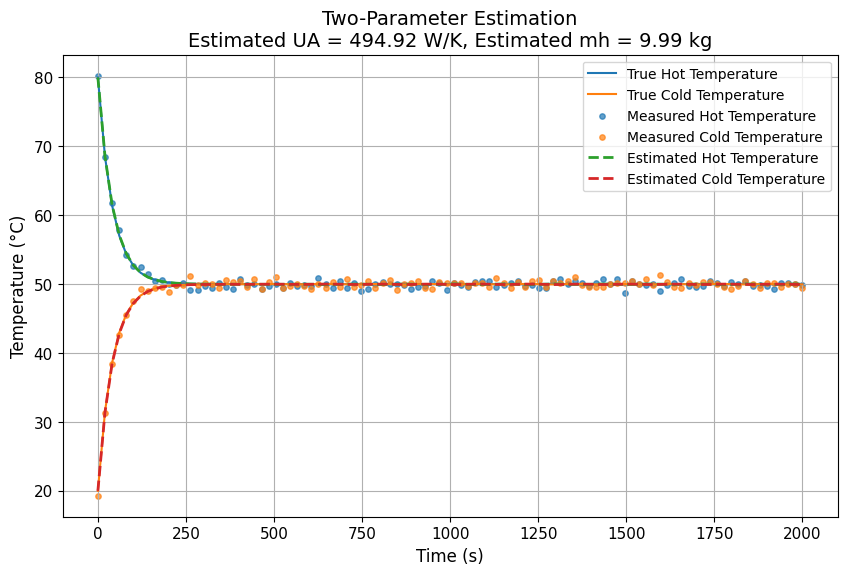
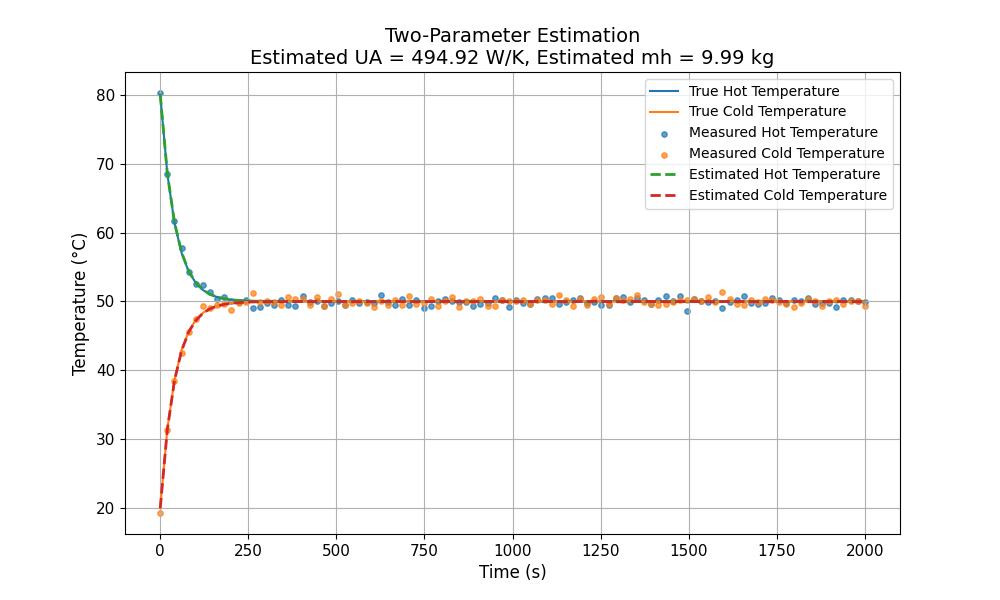
Implement three-parameter estimation for UA, mh, and mc

diff --git a/src/analysis/plotting.py b/src/analysis/plotting.py
@@ -369,3 +369,79 @@ def plot_parameter_correlation(
         plt.savefig(filename)
 
     plt.show()
+
+def plot_three_parameter_estimation(
+    time,
+    Th_true,
+    Tc_true,
+    Th_meas,
+    Tc_meas,
+    Th_est,
+    Tc_est,
+    filename=None
+):
+    """
+    Plot three-parameter estimation results.
+    """
+
+    set_plotting_style()
+
+    plt.figure(figsize=(8, 5))
+
+    plt.plot(
+        time,
+        Th_true,
+        label="True Hot Temperature"
+    )
+
+    plt.plot(
+        time,
+        Tc_true,
+        label="True Cold Temperature"
+    )
+
+    plt.scatter(
+        time,
+        Th_meas,
+        s=20,
+        label="Measured Hot Temperature"
+    )
+
+    plt.scatter(
+        time,
+        Tc_meas,
+        s=20,
+        label="Measured Cold Temperature"
+    )
+
+    plt.plot(
+        time,
+        Th_est,
+        linestyle="--",
+        label="Estimated Hot Temperature"
+    )
+
+    plt.plot(
+        time,
+        Tc_est,
+        linestyle="--",
+        label="Estimated Cold Temperature"
+    )
+
+    plt.xlabel("Time (s)")
+    plt.ylabel("Temperature (°C)")
+    plt.title("Three-Parameter Estimation")
+
+    plt.legend()
+    plt.grid(True)
+
+    if filename is not None:
+
+        os.makedirs(
+            os.path.dirname(filename),
+            exist_ok=True
+        )
+
+        plt.savefig(filename)
+
+    plt.show()

diff --git a/src/inference/parameter_estimation_3param.py b/src/inference/parameter_estimation_3param.py
@@ -1,0 +1,66 @@
+from scipy.optimize import minimize
+from src.inference.objective_function_3param import objective_function_3param
+from src.core.config import (
+    UA_initial_3param, 
+    mh_initial_3param, 
+    mc_initial_3param
+    )
+
+def estimate_UA_mh_mc(
+    Cph,
+    Cpc,
+    y0,
+    t_span,
+    t_eval,
+    Th_meas,
+    Tc_meas,
+    UA_initial=UA_initial_3param,
+    mh_initial=mh_initial_3param,
+    mc_initial=mc_initial_3param
+    ):
+    """
+    Estimate:
+
+        UA
+        mh
+        mc
+
+    using nonlinear least squares optimization.
+    """
+
+    initial_guess = [
+        UA_initial,
+        mh_initial,
+        mc_initial
+    ]
+
+    bounds = [
+        (1.0, 5000.0),   # UA
+        (1.0, 50.0),     # mh
+        (1.0, 50.0)      # mc
+    ]
+
+    result = minimize(
+        objective_function_3param,
+        x0=initial_guess,
+        args=(
+            Cph,
+            Cpc,
+            y0,
+            t_span,
+            t_eval,
+            Th_meas,
+            Tc_meas
+        ),
+        bounds=bounds
+    )
+
+    UA_est = result.x[0]
+    mh_est = result.x[1]
+    mc_est = result.x[2]
+
+    return (
+        UA_est,
+        mh_est,
+        mc_est
+    )

diff --git a/src/inference/objective_function_3param.py b/src/inference/objective_function_3param.py
@@ -1,0 +1,40 @@
+import numpy as np
+
+from src.simulation.simulator import (
+    simulate_heat_exchanger
+)
+
+def objective_function_3param(
+    params,
+    Cph,
+    Cpc,
+    y0,
+    t_span,
+    t_eval,
+    Th_meas,
+    Tc_meas
+    ):
+    
+    UA, mh, mc = params
+
+    solution = simulate_heat_exchanger(
+        mh,
+        mc,
+        Cph,
+        Cpc,
+        UA,
+        y0,
+        t_span,
+        t_eval
+    )
+
+    Th_sim = solution.y[0]
+    Tc_sim = solution.y[1]
+
+    error = np.sum(
+        (Th_meas - Th_sim) ** 2
+        +
+        (Tc_meas - Tc_sim) ** 2
+    )
+
+    return error

diff --git a/main.py b/main.py
@@ -1,3 +1,4 @@
+import numpy as np
 from examples.initial_guess_sensitivity_study import run_initial_guess_sensitivity_study
 from examples.residual_analysis import run_residual_analysis
 from examples.two_parameter_estimation import run_two_parameter_estimation
@@ -24,6 +25,7 @@ from src.utils.data_export import save_estimation_results
 from examples.noise_sensitivity_study import run_noise_sensitivity_study
 from examples.monte_carlo_estimation import run_monte_carlo_estimation
 from examples.parameter_correlation_study import run_parameter_correlation_study
+from examples.three_parameter_estimation import run_three_parameter_estimation
 
 def main():
 
@@ -88,6 +90,7 @@ def main():
         UA_est
     )
 
+    # Save Results
     save_estimation_results(
         filename=ESTIMATION_DATA,
         UA_true=UA_true,
@@ -96,6 +99,13 @@ def main():
     )
 
     print(f"Percent Error: {error:.2f}%")
+
+    # SSE
+    residual_hot = np.sum((Th_meas - Th_est) ** 2)
+    residual_cold = np.sum((Tc_meas - Tc_est) ** 2)
+
+    print(f"SSE Hot : {residual_hot:.4f}")
+    print(f"SSE Cold: {residual_cold:.4f}")
 
     # Plot Results
     plot_estimation_results(
@@ -108,7 +118,7 @@ def main():
         Tc_est,
         filename=ESTIMATION_PLOT
     )
-
+    """
     run_noise_sensitivity_study()
 
     run_monte_carlo_estimation()
@@ -116,10 +126,12 @@ def main():
     run_initial_guess_sensitivity_study()
 
     run_residual_analysis()
-
+    """
     run_two_parameter_estimation()
-
+    """
     run_parameter_correlation_study()
+    """
+    run_three_parameter_estimation()
 
 if __name__ == "__main__":
     main()

diff --git a/src/core/config.py b/src/core/config.py
@@ -56,6 +56,12 @@ UA_initial = 300.0
 UA_lower_bound = 1.0
 UA_upper_bound = 5000.0
 
+# Three-Parameter Estimation Settings
+
+UA_initial_3param = 300.0
+mh_initial_3param = 8.0
+mc_initial_3param = 8.0
+
 # Output Directories
 PLOTS_DIR = "results/plots"
 DATA_DIR = "results/data"
@@ -118,4 +124,12 @@ CORRELATION_PLOT = (
 
 CORRELATION_DATA = (
     f"{DATA_DIR}/parameter_correlation_study.csv"
+)
+
+THREE_PARAMETER_PLOT = (
+    f"{PLOTS_DIR}/three_parameter_estimation.png"
+)
+
+THREE_PARAMETER_DATA = (
+    f"{DATA_DIR}/three_parameter_estimation.csv"
 )

diff --git a/examples/monte_carlo_estimation.py b/examples/monte_carlo_estimation.py
@@ -78,6 +78,7 @@ def run_monte_carlo_estimation():
 
     mean_error = abs((mean_UA - UA_true) / UA_true) * 100
 
+    # Print Results
     print("\nMonte Carlo Estimation Results:")
     print(f"Mean UA Estimate: {mean_UA:.2f} W/K")
     print(f"Standard Deviation: {std_UA:.2f} W/K")
@@ -94,10 +95,10 @@ def run_monte_carlo_estimation():
 
     # Return results for further analysis if needed
     return {
-    "mean": mean_UA,
-    "std": std_UA,
-    "min": min_UA,
-    "max": max_UA,
-    "mean_error": mean_error,
-    "estimates": UA_estimates
+        "mean": mean_UA,
+        "std": std_UA,
+        "min": min_UA,
+        "max": max_UA,
+        "mean_error": mean_error,
+        "estimates": UA_estimates
     }

diff --git a/examples/residual_analysis.py b/examples/residual_analysis.py
@@ -78,6 +78,7 @@ def run_residual_analysis():
     hot_rmse = rmse(Th_meas, Th_est)
     cold_rmse = rmse(Tc_meas, Tc_est)
 
+    # Print Results
     print("\nResidual Analysis Results")
     print("=" * 35)
     print(f"Hot-Side RMSE : {hot_rmse:.4f} °C")
@@ -98,6 +99,7 @@ def run_residual_analysis():
         f"Maximum Absolute Cold Residual : "
         f"{np.max(np.abs(cold_residuals)):.4f} °C"
     )
+    print()
 
     # Save results
     headers = ["time", "hot_residual", "cold_residual"]
@@ -106,3 +108,11 @@ def run_residual_analysis():
 
     # Plot residuals
     plot_residuals(time, hot_residuals, cold_residuals, RESIDUAL_ANALYSIS_PLOT)
+
+    # Return Results
+    return {
+        "hot_residuals": hot_residuals,
+        "cold_residuals": cold_residuals,
+        "hot_rmse": hot_rmse,
+        "cold_rmse": cold_rmse
+    }

diff --git a/examples/initial_guess_sensitivity_study.py b/examples/initial_guess_sensitivity_study.py
@@ -67,6 +67,7 @@ def run_initial_guess_sensitivity_study():
     # Plot results
     plot_initial_guess_sensitivity(initial_guesses, estimates, UA_true, INITIAL_GUESS_PLOT)
 
+    # Print Results
     print("\nInitial Guess Sensitivity Study Results")
     print("-" * 40)
     print(f"Number of Initial Guesses Tested: {len(initial_guesses)}")
@@ -79,3 +80,11 @@ def run_initial_guess_sensitivity_study():
         f"{estimate_range:.4f} W/K"
     )
     print(f"Average Percent Error: {np.mean(errors):.4f}%")
+
+    # Return Results
+    return {
+        "Minimum Estimated UA": min(estimates),
+        "Maximum Estimated UA": max(estimates),
+        "Estimate Range": estimate_range,
+        "Average Percent Error": np.mean(errors)
+    }

diff --git a/examples/noise_sensitivity_study.py b/examples/noise_sensitivity_study.py
@@ -95,4 +95,10 @@ def run_noise_sensitivity_study():
     noise_values,
     error_values,
     filename=NOISE_SENSITIVITY_PLOT
-)
+    )
+
+    # Return Results
+    return {
+        "noise_levels": noise_values,
+        "percent_errors": error_values
+    }